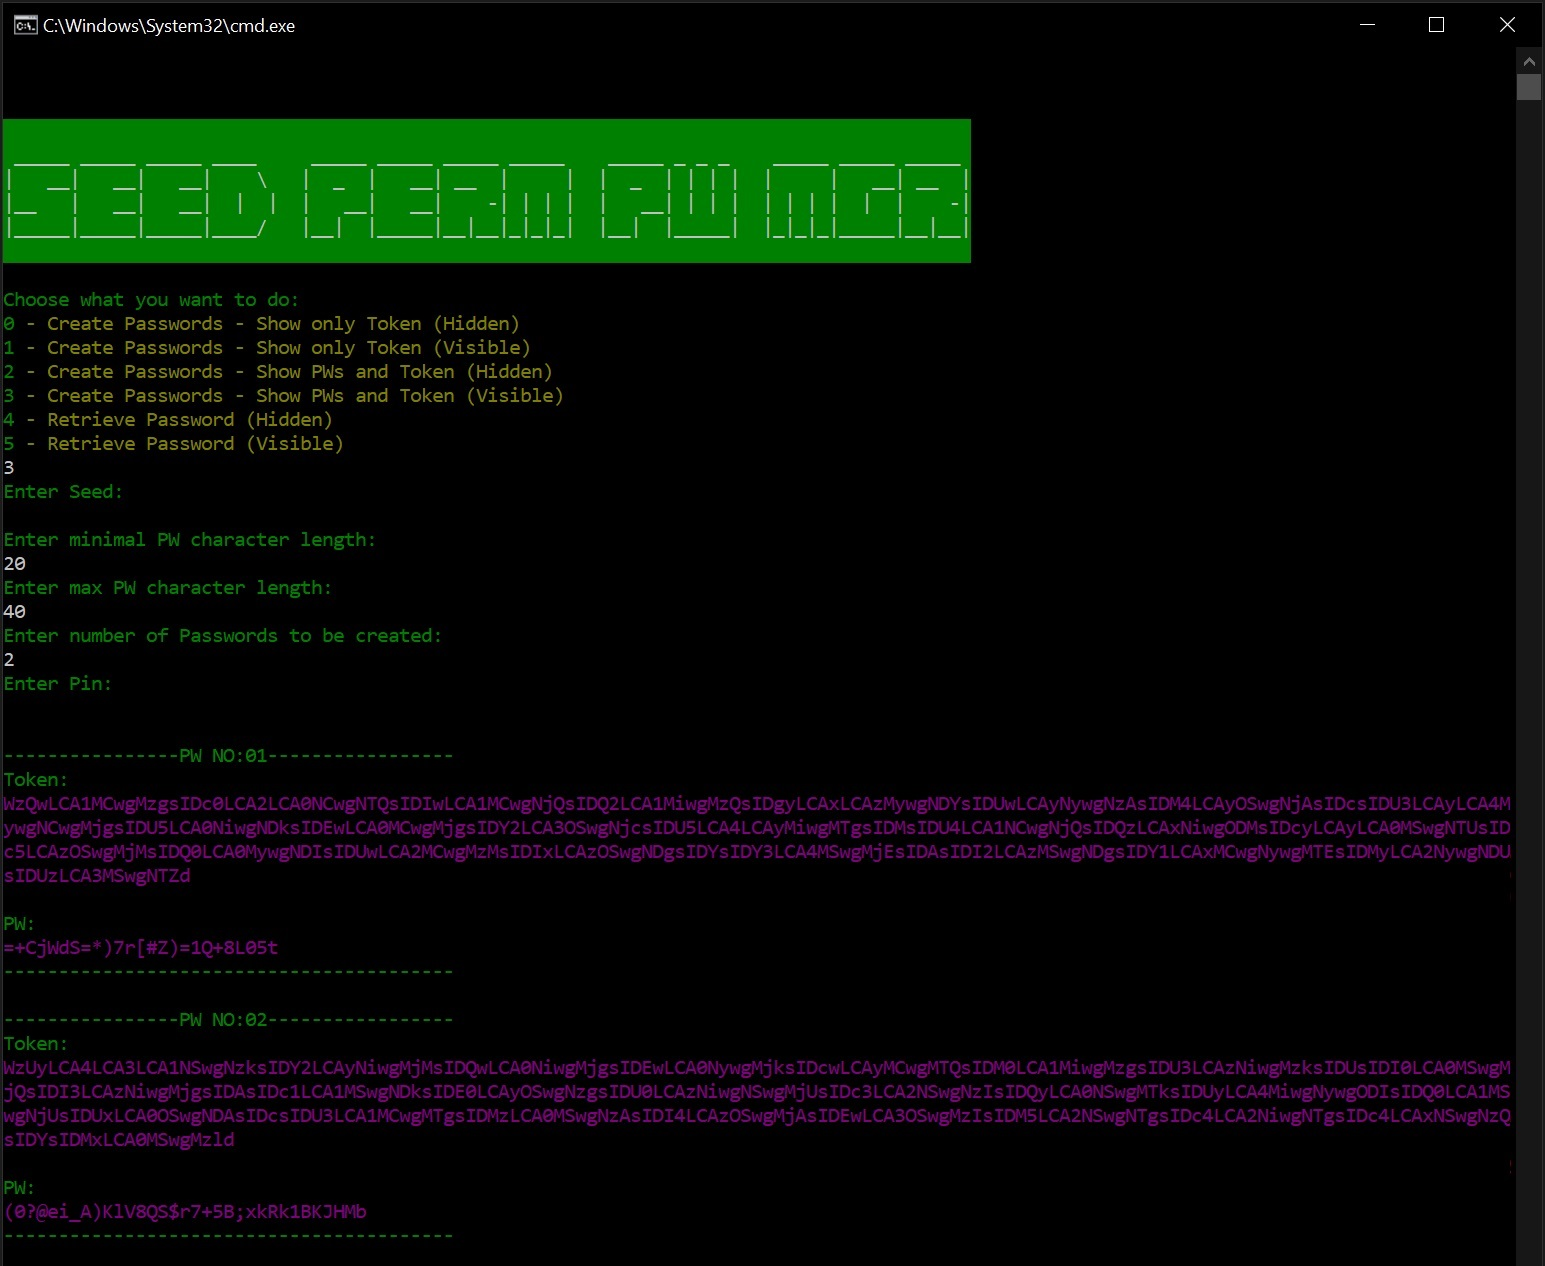
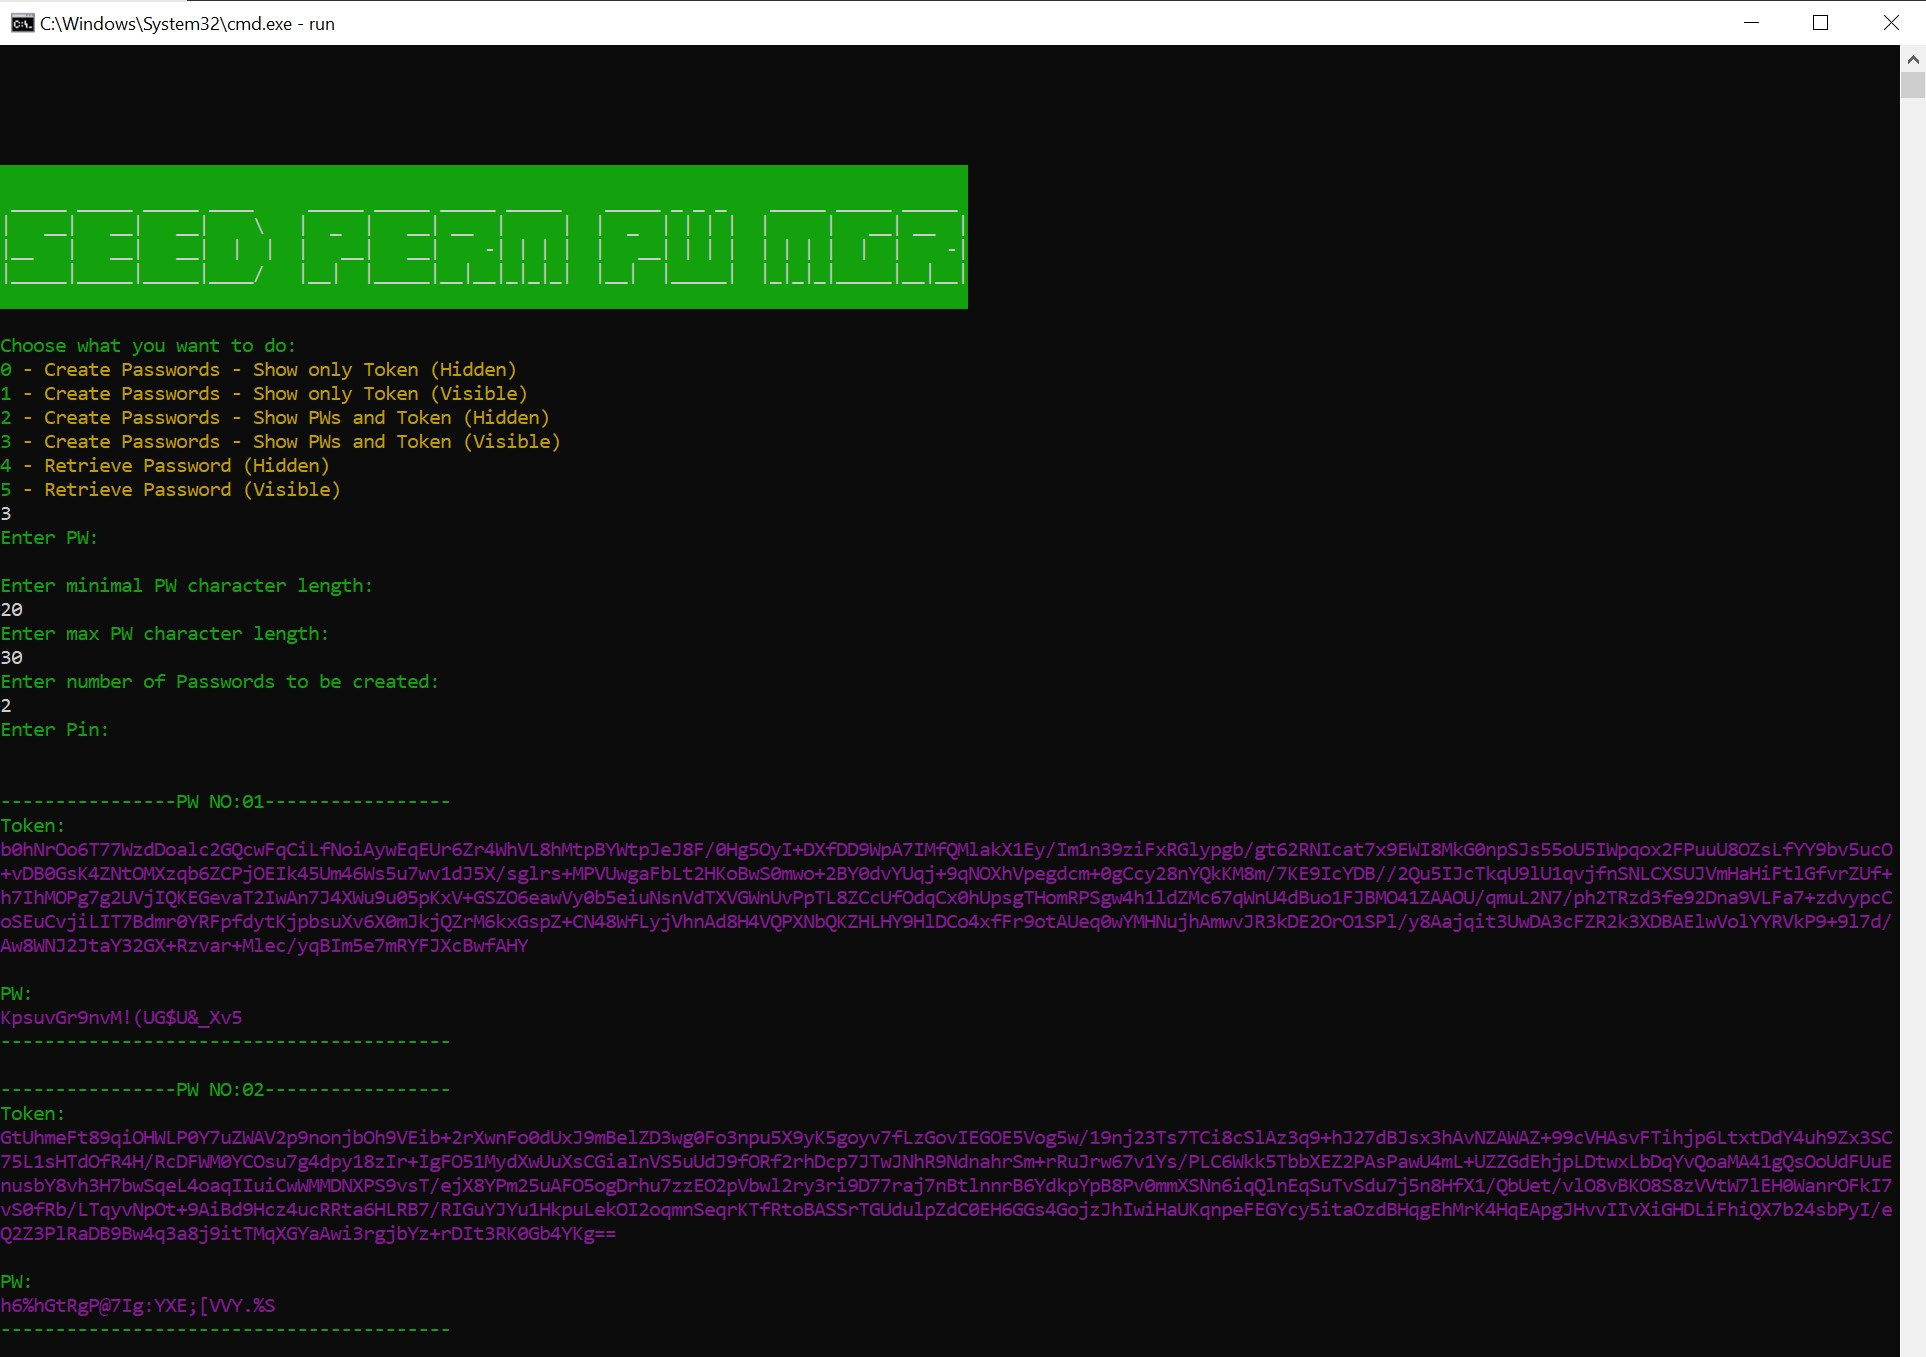
adjust README

Changed region(s): [[0.0, 0.0, 1.0, 1.0], [0.0, 0.0924, 0.6524, 0.5545]]

diff --git a/README.md b/README.md
@@ -1,6 +1,6 @@
 ![Index Generation](/misc/logo.jpg "Masked PW and Index Generation")
 
-# Interactive Seed Permutation PW Manager
+# Interactive Permutation PW Manager
 
 > ## The current version is in a beta phase, but the basic functionality is in place, feel free to test it. I am happy about any feedback
 
@@ -41,13 +41,13 @@ Execute in PowerShell:
 Execute `run.bat` within project by double click on it, this will open the following terminal.
 ![Menu](/misc/01_pw_generation_token_menu.jpg "Menu")
 
-> Note: Choose strong secret Seed and Pin numerical values for good protection
+> Note: Choose strong secret Password [Chars and numbers] and Pin [numbers] values for good protection
 
 ![Menu](/misc/02_pw_generation_token.jpg "Menu")
 
-## Memorize the given Seed number and Pin number, choose a numerical value
+## Memorize the given Password and Pin number.
 
-- Note down the Token!
+- Note down the Token! (In later implementations this could be improved to be stored in a local db or csv etc.)
 
   > NOTE: The value can be signed!
 
@@ -57,6 +57,6 @@ Execute `run.bat` within project by double click on it, this will open the follo
 
 - **MIN Value** for the Seed and Pin is: `-9,223,372,036,854,775,808`
 
-## Retrieve PW With Indexes Array & Custom Seed Number & Custom PIN (Seed and PIN need to be the Same as have been used for the PW / Token generation)
+## Retrieve PW With Indexes Array & Custom Password & Custom PIN (Password and PIN need to be the Same as have been used for the PW / Token generation)
 
 ![Index Generation](/misc/03_pw_retrieve_token.jpg "Copy and Paste Content into Text Editor")
